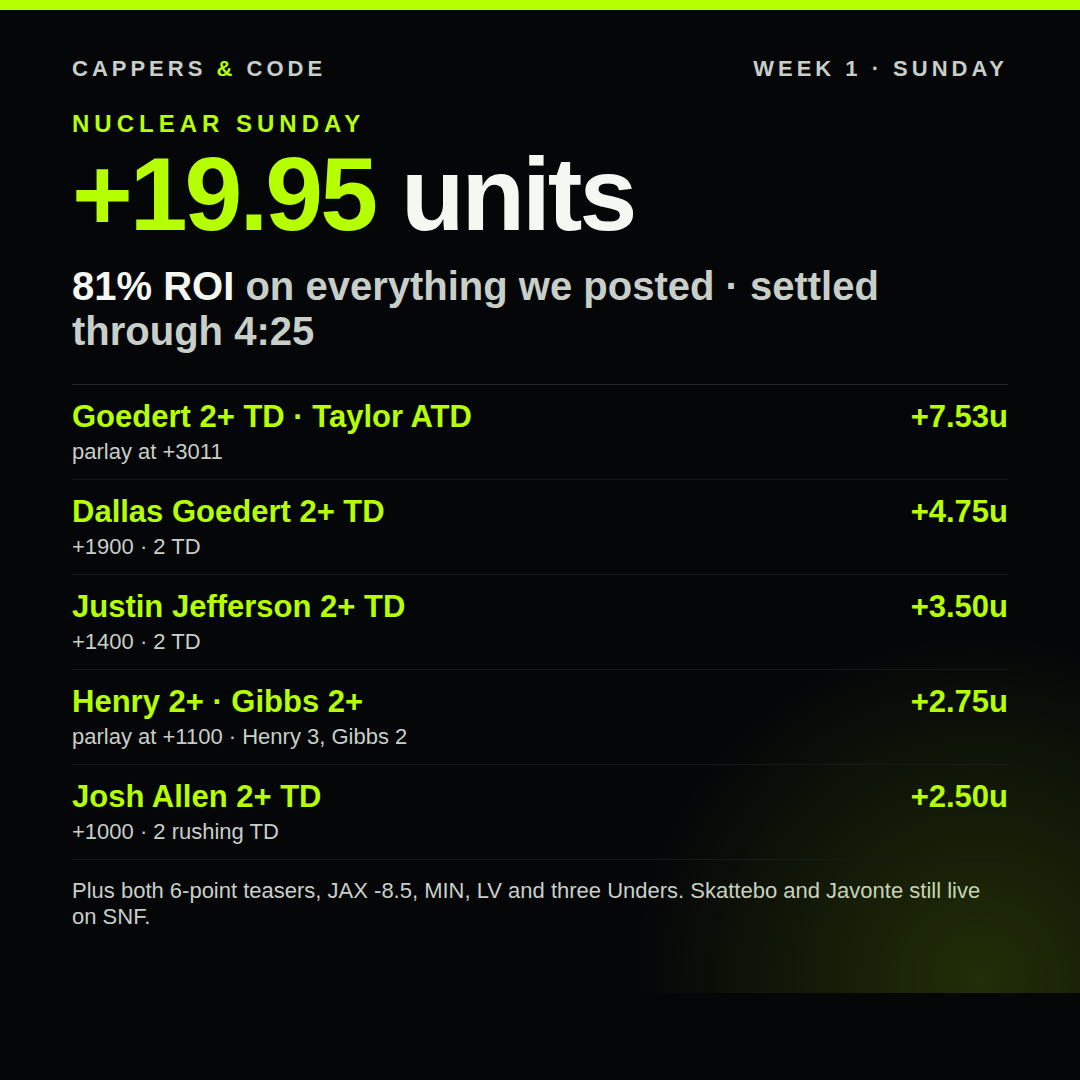
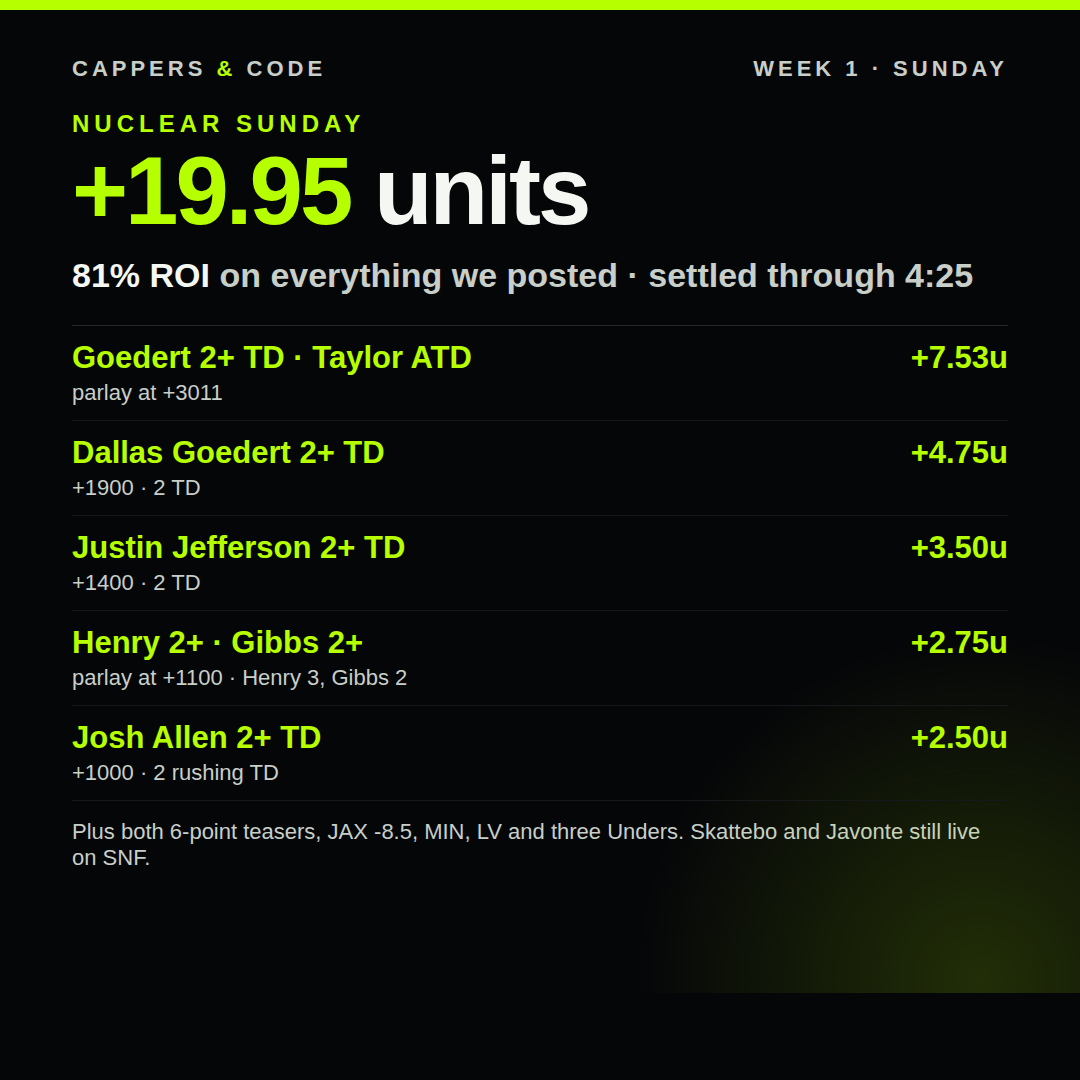
Square results graphic: fit footer
Claude-Session: https://claude.ai/code/session_01QLorhy8pwXBVsprT2JzAqk

diff --git a/site/sheets/w01-results-social.html b/site/sheets/w01-results-social.html
@@ -17,10 +17,10 @@
   .brand b { color: #B6FF00; }
   .hero { position: relative; z-index: 1; }
   .kicker { color: #B6FF00; letter-spacing: 5px; font-size: 24px; font-weight: 800; margin-top: 28px; }
-  h1 { font-size: 104px; margin: 6px 0 0; letter-spacing: -3px; line-height: 0.98; font-weight: 900; }
+  h1 { font-size: 96px; margin: 6px 0 0; letter-spacing: -3px; line-height: 0.98; font-weight: 900; }
   h1 span { color: #B6FF00; }
   #story h1 { font-size: 150px; }
-  .roi { font-size: 40px; color: #C8CFC8; margin-top: 18px; font-weight: 700; }
+  .roi { font-size: 34px; color: #C8CFC8; margin-top: 18px; font-weight: 700; }
   .roi b { color: #F5F7F2; }
   .list { position: relative; z-index: 1; margin-top: 30px; border-top: 1px solid #23282A; }
   .row { display: flex; justify-content: space-between; align-items: baseline; padding: 14px 0; border-bottom: 1px solid #16191B; font-size: 31px; }
